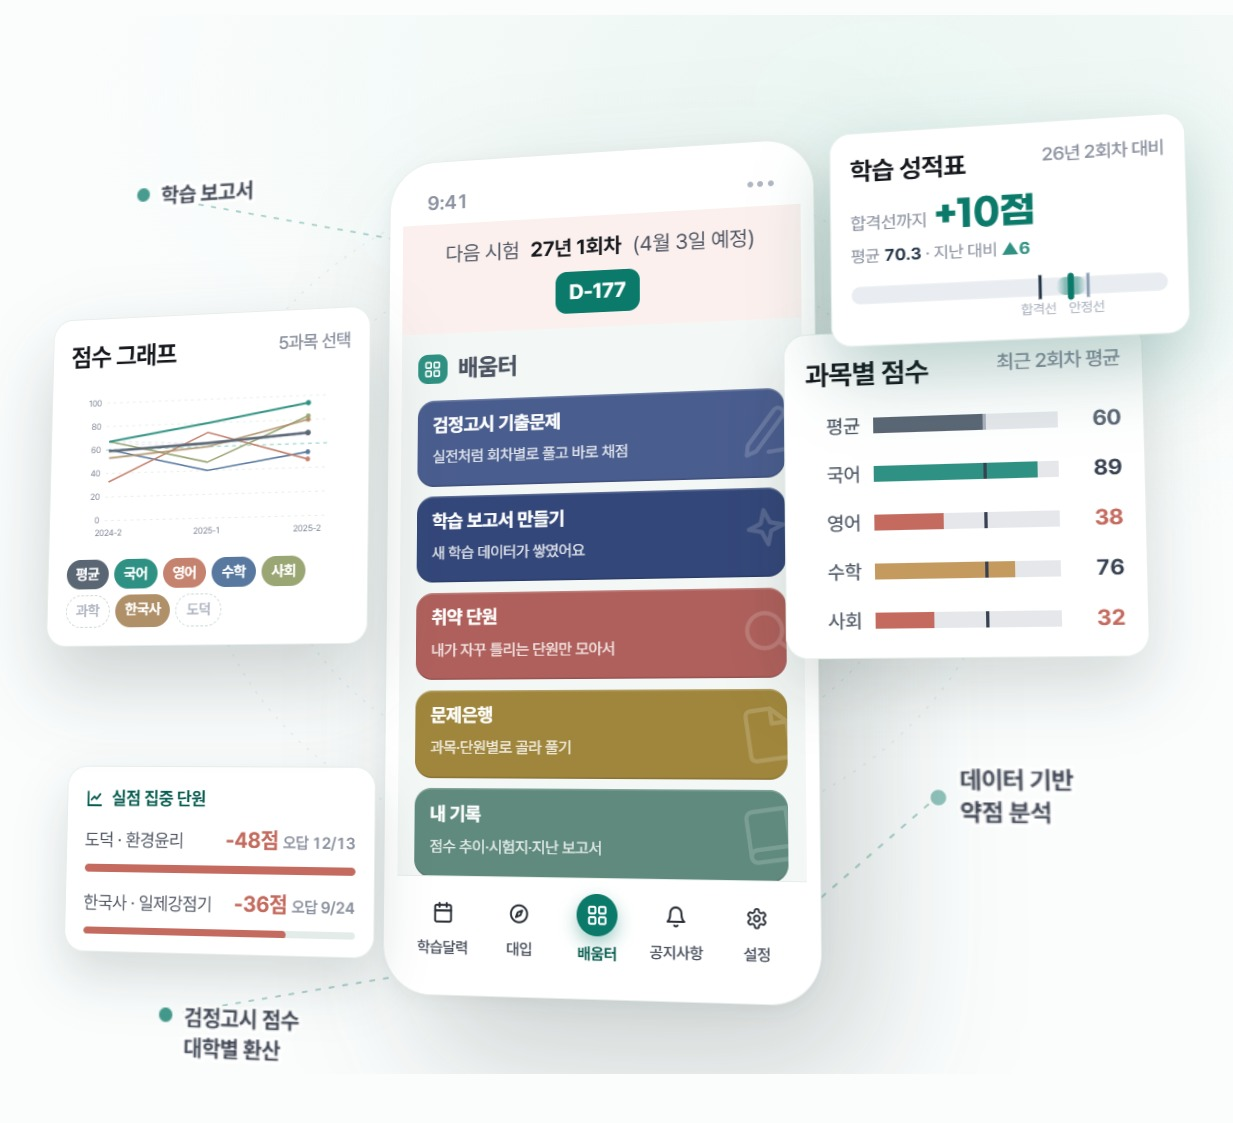
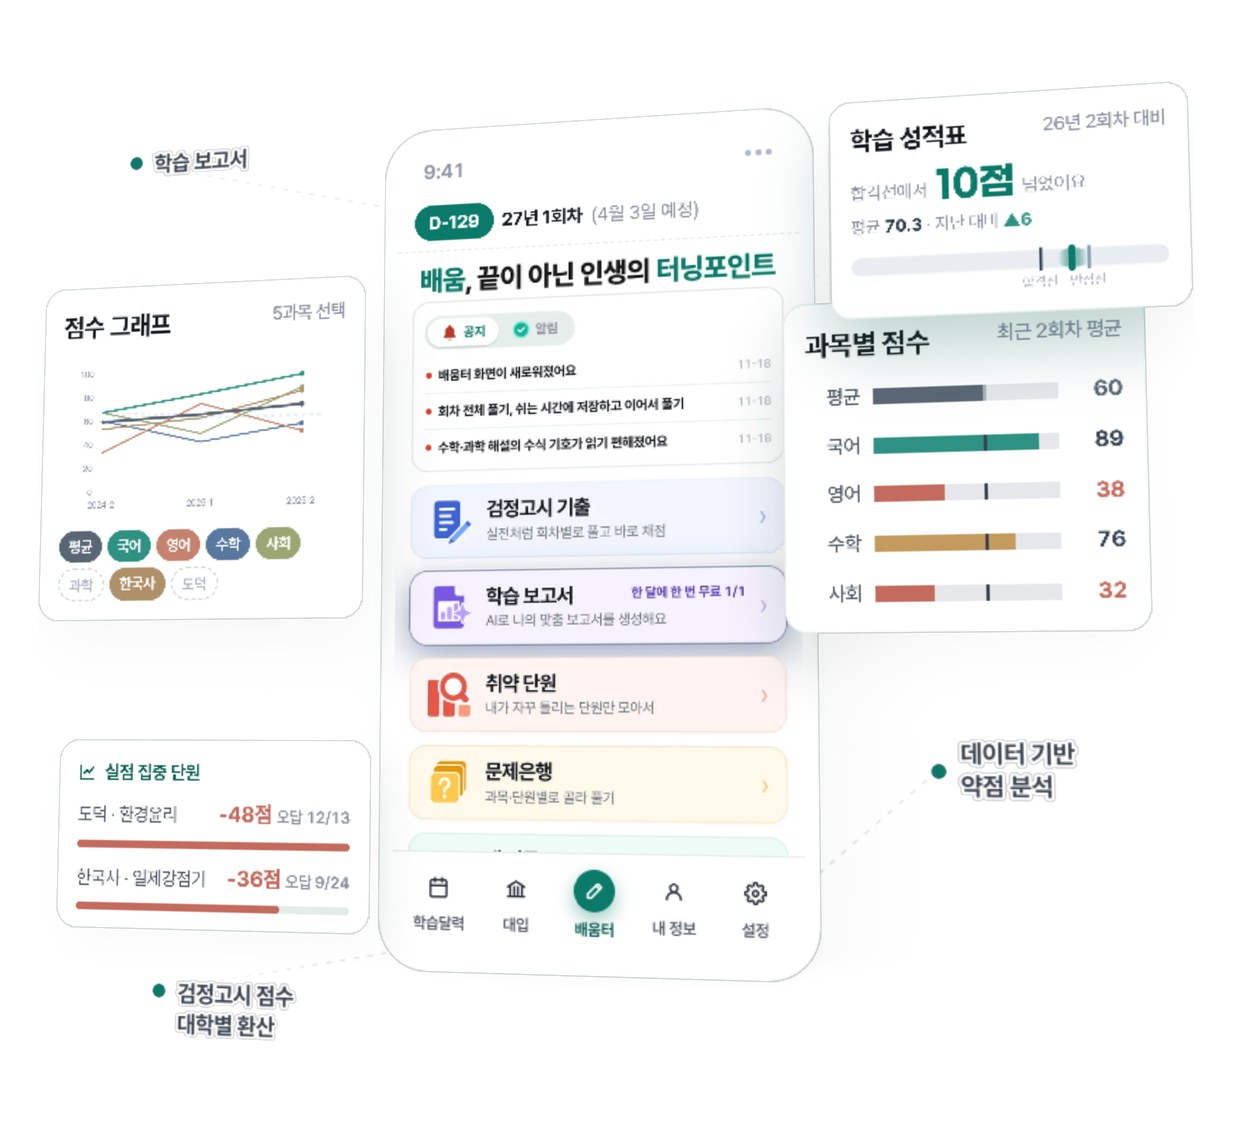
feat(첫 화면 3D 목업): 폰 화면을 지금 앱 배움터로 — 화면 사진·앱 모양 D-day 줄(27년 1회차 4월 3일, 날짜 자동)·하단 탭 5칸(학습달력·대입·배움터·내 정보·설정) · 검색·공유 대표 사진(hero-mockup.jpg)도 새 장면으로 (대표 11-25 '홈페이지 3D 목업도 고쳐')

Changed region(s): [[0.0308, 0.0935, 1.0, 0.9662], [0.7397, 0.6545, 0.8938, 0.748], [0.0925, 0.1247, 0.2157, 0.187]]

diff --git a/index.html b/index.html
@@ -1266,6 +1266,11 @@ body::before{background:
 .cat-slide.on{opacity:1;transform:none;pointer-events:auto}
 .cat-slide.prev{transform:translateX(-44px) scale(.97)}
 .cat-body{flex:1;padding:11px 12px 6px;display:flex;flex-direction:column;gap:9px;overflow:hidden}
+/* 배움터 슬라이드 = 지금 앱 화면 사진(2026-11-25). D-day 줄은 앱 모양 — 흰 바탕·점선 아랫줄·초록 알약 왼쪽 */
+.cat-slide .ddaybar.app{background:#fff;justify-content:flex-start;gap:6px;padding:8px 12px 7px;border-bottom:1px dashed var(--border);font-size:13px}
+.cat-slide .ddaybar.app .dchip{font-size:13px;padding:2px 10px;border-radius:999px;background:#0b7a6a;color:#fff}
+.cat-slide .ddaybar.app .dd{color:var(--text-3)}
+.hub-shot{display:block;width:100%;flex:1;min-height:0;object-fit:cover;object-position:top;background:#fff}
 .cat-head{display:flex;align-items:center;gap:8px;font-size:16.8px;font-weight:800;color:var(--text-2);letter-spacing:-0.02em}
 /* 섹션 카드용 .ci(padding:16px·border)가 상속돼 아이콘이 찌그러지던 것 차단 */
 .cat-head .ci{width:21px;height:21px;border-radius:7px;display:grid;place-items:center;color:#fff;flex-shrink:0;
@@ -1975,19 +1980,14 @@ body{word-break:keep-all;overflow-wrap:break-word}
                 <div class="statusbar"><span class="tnum">9:41</span><span class="dots"><i></i><i></i><i></i></span></div>
                 <div class="cat-stage" id="catStage">
 
-                  <!-- 카테고리 1: 배움터 (앱의 첫 화면 — 대시보드는 2026-08 폐지) -->
+                  <!-- 카테고리 1: 배움터 (앱의 첫 화면 — 대시보드는 2026-08 폐지).
+                       2026-11-25 대표 "홈페이지 3D 목업도 고쳐" — 손으로 그린 옛 배움터(색 띠 다섯 줄)를 지금 앱 화면 사진으로 바꿨다
+                       (가상 서버 시험 계정, 스토어 첫 장과 같은 원본 — 디자인/스토어 스샷 2026-11-25 전체). 사진에서는 앱의 D-day 줄·하단 탭을 뺐다:
+                       D-day 줄은 앱 모양(초록 알약 왼쪽 + 회차·날짜)으로 여기서 그려 날짜를 스스로 세고(아래 'D-day 자동 계산'), 탭은 이 폰의 .screen-dock. -->
                   <div class="cat-slide on" data-cat="hub">
-                    <div class="ddaybar"><span>다음 시험</span> <b>27년 1회차</b> <span>(4월 3일 예정)</span> <span class="dchip" id="ddayChip">D-213</span></div>
-                    <div class="cat-body">
-                      <div class="cat-head"><span class="ci" style="background:#2f9183"><svg width="13" height="13" viewBox="0 0 24 24" fill="none" stroke="currentColor" stroke-width="2.2" stroke-linecap="round" stroke-linejoin="round"><rect x="3" y="3" width="7" height="7" rx="1.5"/><rect x="14" y="3" width="7" height="7" rx="1.5"/><rect x="3" y="14" width="7" height="7" rx="1.5"/><rect x="14" y="14" width="7" height="7" rx="1.5"/></svg></span>배움터</div>
-                      <div style="display:flex;flex-direction:column;gap:7px">
-                        <div style="position:relative;overflow:hidden;background:#4a5d8f;border-radius:12px;padding:9px 11px;color:#fff;box-shadow:inset 0 1px 0 rgba(255,255,255,.22),inset 0 -1px 0 rgba(0,0,0,.14)"><svg viewBox="0 0 24 24" fill="none" stroke="#fff" stroke-width="1.7" stroke-linecap="round" stroke-linejoin="round" style="position:absolute;right:-7px;top:50%;transform:translateY(-50%) rotate(-8deg);width:40px;height:40px;opacity:.17" aria-hidden="true"><path d="M12 20h9"/><path d="M16.5 3.5a2.12 2.12 0 0 1 3 3L7 19l-4 1 1-4Z"/></svg><b style="font-size:13px;display:block;line-height:1.25;position:relative">검정고시 기출문제</b><span style="font-size:10.8px;opacity:.84;position:relative">실전처럼 회차별로 풀고 바로 채점</span></div>
-                        <div style="position:relative;overflow:hidden;background:#34477a;border-radius:12px;padding:9px 11px;color:#fff;box-shadow:inset 0 1px 0 rgba(255,255,255,.22),inset 0 -1px 0 rgba(0,0,0,.14)"><svg viewBox="0 0 24 24" fill="none" stroke="#fff" stroke-width="1.7" stroke-linecap="round" stroke-linejoin="round" style="position:absolute;right:-7px;top:50%;transform:translateY(-50%) rotate(-8deg);width:40px;height:40px;opacity:.17" aria-hidden="true"><path d="m12 3 1.9 5.3L19 10l-5.1 1.7L12 17l-1.9-5.3L5 10l5.1-1.7Z"/></svg><b style="font-size:13px;display:block;line-height:1.25;position:relative">학습 보고서 만들기</b><span style="font-size:10.8px;opacity:.84;position:relative">새 학습 데이터가 쌓였어요</span></div>
-                        <div style="position:relative;overflow:hidden;background:#b0605c;border-radius:12px;padding:9px 11px;color:#fff;box-shadow:inset 0 1px 0 rgba(255,255,255,.22),inset 0 -1px 0 rgba(0,0,0,.14)"><svg viewBox="0 0 24 24" fill="none" stroke="#fff" stroke-width="1.7" stroke-linecap="round" stroke-linejoin="round" style="position:absolute;right:-7px;top:50%;transform:translateY(-50%) rotate(-8deg);width:40px;height:40px;opacity:.17" aria-hidden="true"><circle cx="11" cy="11" r="7"/><path d="m20 20-3.5-3.5"/></svg><b style="font-size:13px;display:block;line-height:1.25;position:relative">취약 단원</b><span style="font-size:10.8px;opacity:.84;position:relative">내가 자꾸 틀리는 단원만 모아서</span></div>
-                        <div style="position:relative;overflow:hidden;background:#a0863c;border-radius:12px;padding:9px 11px;color:#fff;box-shadow:inset 0 1px 0 rgba(255,255,255,.22),inset 0 -1px 0 rgba(0,0,0,.14)"><svg viewBox="0 0 24 24" fill="none" stroke="#fff" stroke-width="1.7" stroke-linecap="round" stroke-linejoin="round" style="position:absolute;right:-7px;top:50%;transform:translateY(-50%) rotate(-8deg);width:40px;height:40px;opacity:.17" aria-hidden="true"><path d="M14 2H6a2 2 0 0 0-2 2v16a2 2 0 0 0 2 2h12a2 2 0 0 0 2-2V8Z"/><path d="M14 2v6h6"/></svg><b style="font-size:13px;display:block;line-height:1.25;position:relative">문제은행</b><span style="font-size:10.8px;opacity:.84;position:relative">과목·단원별로 골라 풀기</span></div>
-                        <div style="position:relative;overflow:hidden;background:#5f8a7d;border-radius:12px;padding:9px 11px;color:#fff;box-shadow:inset 0 1px 0 rgba(255,255,255,.22),inset 0 -1px 0 rgba(0,0,0,.14)"><svg viewBox="0 0 24 24" fill="none" stroke="#fff" stroke-width="1.7" stroke-linecap="round" stroke-linejoin="round" style="position:absolute;right:-7px;top:50%;transform:translateY(-50%) rotate(-8deg);width:40px;height:40px;opacity:.17" aria-hidden="true"><path d="M4 19.5A2.5 2.5 0 0 1 6.5 17H20"/><path d="M6.5 2H20v20H6.5A2.5 2.5 0 0 1 4 19.5v-15A2.5 2.5 0 0 1 6.5 2z"/></svg><b style="font-size:13px;display:block;line-height:1.25;position:relative">내 기록</b><span style="font-size:10.8px;opacity:.84;position:relative">점수 추이·시험지·지난 보고서</span></div>
-                      </div>
-                    </div>
+                    <div class="ddaybar app"><span class="dchip" id="ddayChip">D-129</span><b>27년 1회차</b><span class="dd">(4월 3일 예정)</span></div>
+                    <img class="hub-shot" src="brand/app-hub-2026-11.webp" width="600" height="994" decoding="async"
+                         alt="배움터닝 배움터 화면 — 공지·알림, 검정고시 기출, 학습 보고서, 취약 단원, 문제은행, 내 기록">
                   </div>
 
                   <!-- 카테고리 2: 학습달력 -->
@@ -2102,26 +2102,27 @@ body{word-break:keep-all;overflow-wrap:break-word}
                   </div>
 
                 </div>
+                <!-- 하단 탭 = 지금 앱 5칸(2026-11-20~ 설정이 맨 오른쪽, 공지는 배움터 안 공지·알림 띠로 — 11-25 현행화) -->
                 <div class="dock screen-dock">
                   <div class="dock-item">
                     <span class="di-ic"><svg width="15" height="15" viewBox="0 0 24 24" fill="none" stroke="currentColor" stroke-width="2.2" stroke-linecap="round" stroke-linejoin="round"><rect x="3" y="4" width="18" height="18" rx="2"/><path d="M16 2v4M8 2v4M3 10h18"/></svg></span>
                     <span>학습달력</span>
                   </div>
                   <div class="dock-item">
-                    <span class="di-ic"><svg width="15" height="15" viewBox="0 0 24 24" fill="none" stroke="currentColor" stroke-width="2.2" stroke-linecap="round" stroke-linejoin="round"><circle cx="12" cy="12" r="9"/><polygon points="15.5 8.5 13.5 13.5 8.5 15.5 10.5 10.5 15.5 8.5"/></svg></span>
+                    <span class="di-ic"><svg width="15" height="15" viewBox="0 0 24 24" fill="none" stroke="currentColor" stroke-width="2.2" stroke-linecap="round" stroke-linejoin="round"><path d="M3 10 12 4l9 6"/><path d="M5.5 10v8M10 10v8M14 10v8M18.5 10v8"/><path d="M3 20h18"/></svg></span>
                     <span>대입</span>
                   </div>
                   <div class="dock-item active">
-                    <span class="di-ic"><svg width="15" height="15" viewBox="0 0 24 24" fill="none" stroke="currentColor" stroke-width="2.2" stroke-linecap="round" stroke-linejoin="round"><rect x="3" y="3" width="7" height="7" rx="1.5"/><rect x="14" y="3" width="7" height="7" rx="1.5"/><rect x="3" y="14" width="7" height="7" rx="1.5"/><rect x="14" y="14" width="7" height="7" rx="1.5"/></svg></span>
+                    <span class="di-ic"><svg width="15" height="15" viewBox="0 0 24 24" fill="none" stroke="currentColor" stroke-width="2.2" stroke-linecap="round" stroke-linejoin="round"><path d="M4 20h4L19 9l-4-4L4 16z"/><path d="m13 7 4 4"/></svg></span>
                     <span>배움터</span>
-                  </div>
-                  <div class="dock-item">
-                    <span class="di-ic"><svg width="15" height="15" viewBox="0 0 24 24" fill="none" stroke="currentColor" stroke-width="2.2" stroke-linecap="round" stroke-linejoin="round"><path d="M18 8a6 6 0 0 0-12 0c0 7-3 9-3 9h18s-3-2-3-9"/><path d="M13.7 21a2 2 0 0 1-3.4 0"/></svg></span>
-                    <span>공지사항</span>
                   </div>
                   <div class="dock-item">
                     <span class="di-ic"><svg width="15" height="15" viewBox="0 0 24 24" fill="none" stroke="currentColor" stroke-width="2.2" stroke-linecap="round" stroke-linejoin="round"><circle cx="12" cy="8" r="4"/><path d="M4.5 20a7.5 7.5 0 0 1 15 0"/></svg></span>
                     <span>내 정보</span>
+                  </div>
+                  <div class="dock-item">
+                    <span class="di-ic"><svg width="15" height="15" viewBox="0 0 24 24" fill="none" stroke="currentColor" stroke-width="2.2" stroke-linecap="round" stroke-linejoin="round"><circle cx="12" cy="12" r="3"/><path d="M19.4 15a1.65 1.65 0 0 0 .33 1.82l.06.06a2 2 0 1 1-2.83 2.83l-.06-.06a1.65 1.65 0 0 0-1.82-.33 1.65 1.65 0 0 0-1 1.51V21a2 2 0 1 1-4 0v-.09A1.65 1.65 0 0 0 9 19.4a1.65 1.65 0 0 0-1.82.33l-.06.06a2 2 0 1 1-2.83-2.83l.06-.06A1.65 1.65 0 0 0 4.68 15a1.65 1.65 0 0 0-1.51-1H3a2 2 0 1 1 0-4h.09A1.65 1.65 0 0 0 4.6 9a1.65 1.65 0 0 0-.33-1.82l-.06-.06a2 2 0 1 1 2.83-2.83l.06.06A1.65 1.65 0 0 0 9 4.68a1.65 1.65 0 0 0 1-1.51V3a2 2 0 1 1 4 0v.09a1.65 1.65 0 0 0 1 1.51 1.65 1.65 0 0 0 1.82-.33l.06-.06a2 2 0 1 1 2.83 2.83l-.06.06A1.65 1.65 0 0 0 19.4 9a1.65 1.65 0 0 0 1.51 1H21a2 2 0 1 1 0 4h-.09a1.65 1.65 0 0 0-1.51 1z"/></svg></span>
+                    <span>설정</span>
                   </div>
                 </div>
               </div>
@@ -2458,15 +2459,15 @@ document.querySelectorAll('.hubitem').forEach(function(item){
   var dockItems=[].slice.call(scene.querySelectorAll('.dock-item'));
   var ghost=document.getElementById('absorbGhost');
   if(slides.length<2) return;
-  /* 슬라이드 → 탭 매핑. 앱 탭은 5개(학습달력·대입·배움터·공지사항·내 정보)이고
-     취약 단원은 배움터 안쪽 화면이라 같은 탭(2)을 가리킨다. */
+  /* 슬라이드 → 탭 매핑. 앱 탭은 5개(학습달력·대입·배움터·내 정보·설정 — 2026-11-25 현행화)이고
+     취약 단원·공지사항은 배움터 안쪽 화면(공지는 배움터의 공지·알림 띠)이라 같은 탭(2)을 가리킨다. */
   var meta=[
     {dock:2,label:'배움터',gx:'4px',gy:'-150px'},
     {dock:0,label:'학습달력',gx:'-150px',gy:'46px'},
     {dock:2,label:'취약 단원',gx:'150px',gy:'88px'},
     {dock:1,label:'내신 환산',gx:'150px',gy:'-46px'},
-    {dock:3,label:'공지사항',gx:'-150px',gy:'-66px'},
-    {dock:4,label:'내 정보',gx:'150px',gy:'-150px'}
+    {dock:2,label:'공지사항',gx:'-150px',gy:'-66px'},
+    {dock:3,label:'내 정보',gx:'150px',gy:'-150px'}
   ];
   var reduce=window.matchMedia&&window.matchMedia('(prefers-reduced-motion:reduce)').matches;
   /* 자동 전환에 태우는 화면 순서 — 배움터 > 학습달력 > 대입 > 공지사항 (2026-09-06 대표 지시).
